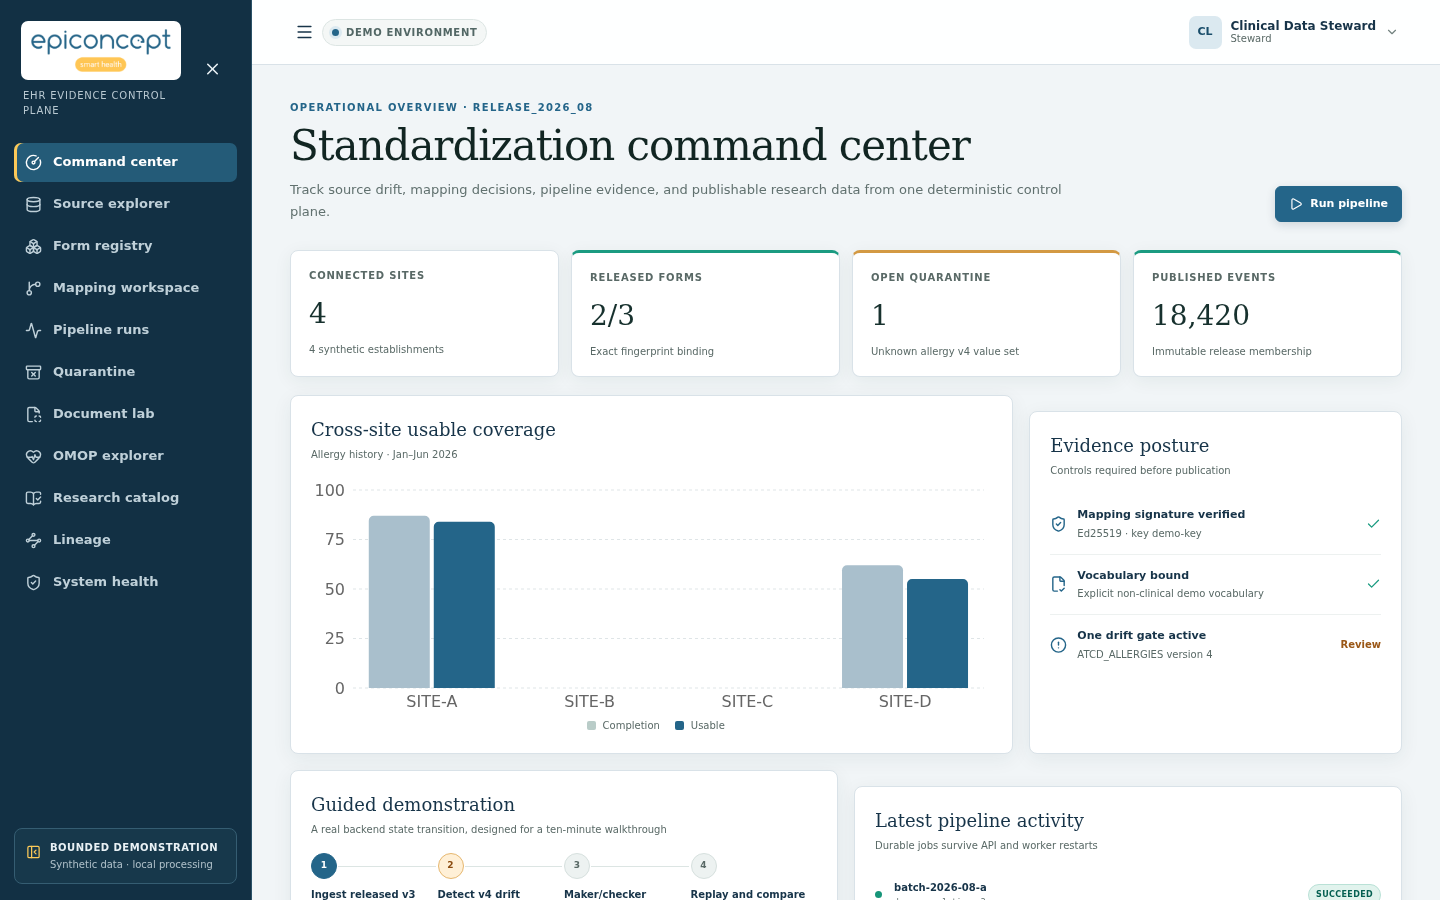
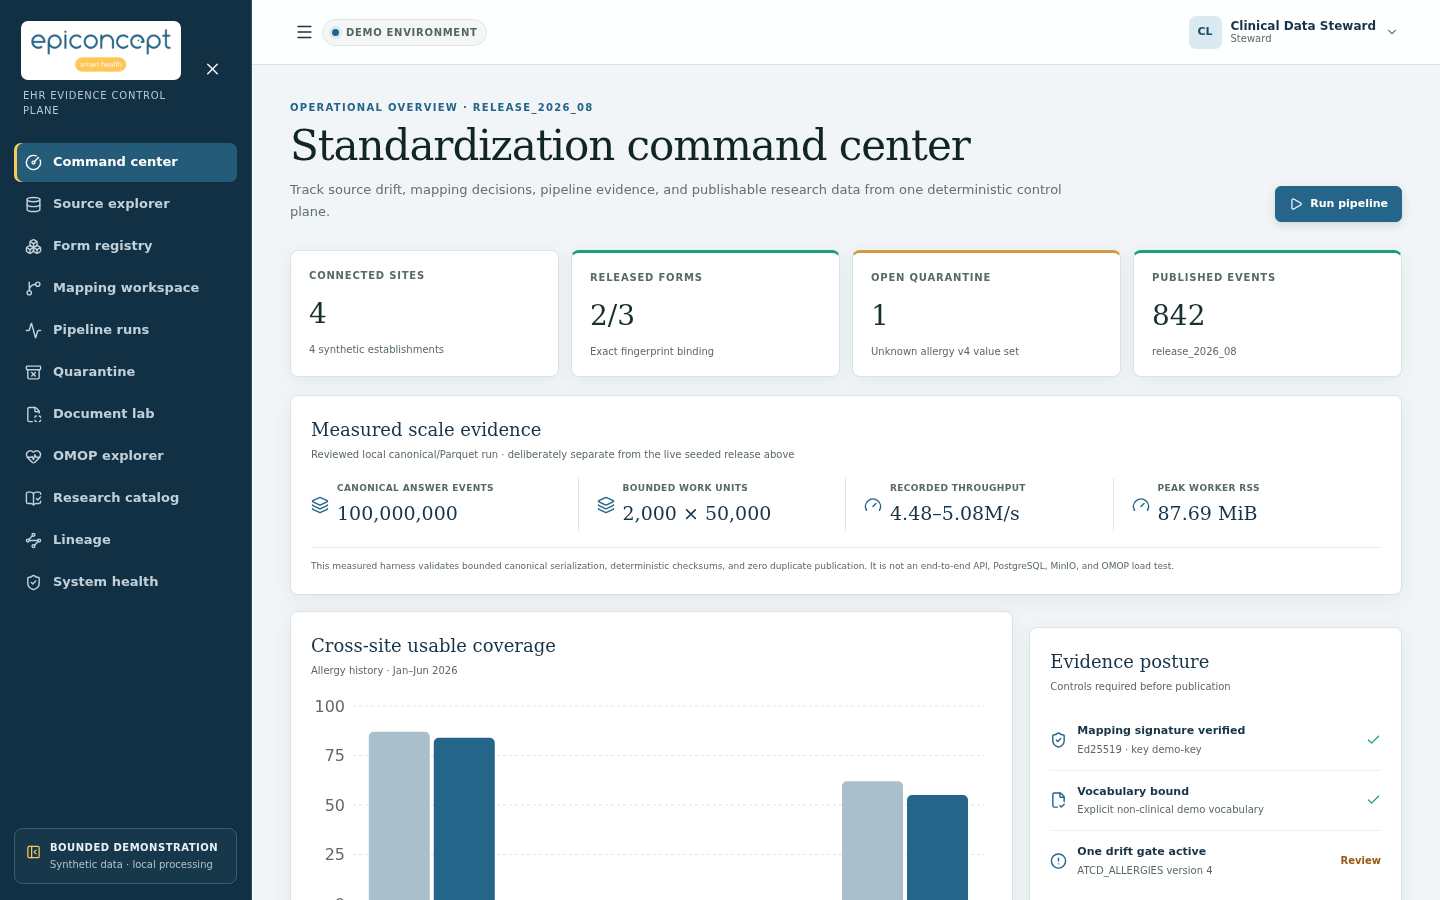
docs: update project documentation

diff --git a/apps/web/src/pages/CommandCenter.tsx b/apps/web/src/pages/CommandCenter.tsx
@@ -243,7 +243,7 @@ export function CommandCenterPage() {
       <div className="dashboard-grid lower-grid">
         <Panel
           title="Guided demonstration"
-          subtitle="A real backend state transition, designed for a ten-minute walkthrough"
+          subtitle="A reviewable end-to-end backend state transition"
         >
           <ol className="demo-steps">
             <li className="done">

diff --git a/tests/unit/test_validate_repository.py b/tests/unit/test_validate_repository.py
@@ -1,0 +1,32 @@
+from __future__ import annotations
+
+import shutil
+import subprocess
+from pathlib import Path
+
+import pytest
+from scripts import validate_repository
+
+
+def test_repository_validation_allows_a_standard_remote(
+    tmp_path: Path, monkeypatch: pytest.MonkeyPatch
+) -> None:
+    git = shutil.which("git")
+    assert git is not None
+    for name in ("LICENSE", "NOTICE", "README.md", "SECURITY.md", "uv.lock", "pnpm-lock.yaml"):
+        (tmp_path / name).write_text(f"fixture for {name}\n", encoding="utf-8")
+    subprocess.run(  # noqa: S603 -- executable is resolved from the trusted PATH
+        [git, "init"], cwd=tmp_path, check=True, capture_output=True
+    )
+    subprocess.run(  # noqa: S603 -- executable is resolved from the trusted PATH
+        [git, "add", "."], cwd=tmp_path, check=True, capture_output=True
+    )
+    subprocess.run(  # noqa: S603 -- executable is resolved from the trusted PATH
+        [git, "remote", "add", "origin", "https://example.invalid/project.git"],
+        cwd=tmp_path,
+        check=True,
+        capture_output=True,
+    )
+    monkeypatch.setattr(validate_repository, "ROOT", tmp_path)
+
+    assert validate_repository.main() == 0

diff --git a/scripts/showcase_check.py b/scripts/showcase_check.py
@@ -1,4 +1,4 @@
-"""Check every user-facing service required for the interview showcase."""
+"""Check every user-facing service required for the complete local showcase."""
 
 from __future__ import annotations
 
@@ -84,7 +84,7 @@ def wait_for_endpoints(
 
 
 def _render_human(results: Sequence[CheckResult]) -> str:
-    lines = ["EHRFS interview showcase"]
+    lines = ["EHRFS local showcase"]
     for result in results:
         marker = "READY" if result.ready else "FAILED"
         suffix = f"HTTP {result.status}" if result.status is not None else result.error

diff --git a/scripts/validate_repository.py b/scripts/validate_repository.py
@@ -55,11 +55,6 @@ def main() -> int:
             for marker in PRIVATE_MARKERS
             if marker.casefold() in value
         )
-    remotes = subprocess.run(  # noqa: S603 -- executable is resolved from the trusted PATH
-        [git, "remote"], cwd=ROOT, check=True, capture_output=True, text=True
-    ).stdout.strip()
-    if remotes:
-        errors.append("a Git remote is configured, but this delivery must remain local")
     if errors:
         print("\n".join(f"ERROR: {error}" for error in errors))
         return 1

diff --git a/README.md b/README.md
@@ -12,8 +12,6 @@ research-ready without pretending that heterogeneous clinical semantics are auto
 [![React](https://img.shields.io/badge/React-19.2-246589)](apps/web/package.json)
 [![License](https://img.shields.io/badge/license-Apache--2.0-FCC958)](LICENSE)
 
-![Command center](docs/assets/generated/command-center-desktop.png)
-
 > This bounded demonstration uses only synthetic/project-owned data. It is not an
 > HDS-certified deployment, has not been validated against a private hospital schema, and
 > makes no clinical-validity or universal-standardization claim.
@@ -36,6 +34,130 @@ research-ready without pretending that heterogeneous clinical semantics are auto
   boxes, confidence thresholds, deterministic French rules, and abstention.
 - Support central patient-level processing and site-local signed aggregate export with
   small-cell suppression.
+
+## Guided application tour
+
+These screenshots come from the reset synthetic scenario produced by `make screenshots`. The
+Playwright capture checks every route at 1440×900 and 390×844, waits for the live API data, and
+fails on horizontal viewport overflow. Desktop captures are shown below for readability; each
+caption also links to the tested mobile layout.
+
+The persona menu in the top-right changes the demo session and demonstrates role boundaries:
+
+| Persona           | Demonstrated responsibility                                       |
+| ----------------- | ----------------------------------------------------------------- |
+| Engineer          | Inspect mappings, queue pipeline work, replay failures, run OCR   |
+| Clinical steward  | Review test vectors, approve/sign mappings, run reviewed OCR      |
+| Researcher        | Inspect releases, coverage, catalog metadata, and lineage         |
+| Platform operator | Queue durable runs, replay quarantined work, inspect system state |
+
+### 1. Command center — see the release posture
+
+![Command center showing release metrics, measured scale evidence, site coverage, and evidence controls](docs/assets/generated/command-center-desktop.png)
+
+The landing page separates the live end-to-end release from the bounded scale harness. It reports
+connected sites, released form versions, unresolved quarantine, published events, site-level usable
+coverage, and the signature/vocabulary/drift gates that control publication. The lower panels guide
+the version-4 drift resolution flow and show recent durable jobs and denominator-aware coverage.
+[Open the mobile capture](docs/assets/generated/command-center-mobile.png).
+
+### 2. Source explorer — inventory the input boundary
+
+![Source explorer listing synthetic source systems and supported adapters](docs/assets/generated/source-explorer-desktop.png)
+
+Every source is registered before patient-level processing. The inventory identifies the site,
+input contract, version, and state, while the adapter boundary lists the explicitly supported FHIR
+R4, QuestionnaireResponse, tabular/EAV, CDA, secure structured-data, and document paths. Inputs are
+typed and rejected explicitly; fields are not guessed. [Open the mobile capture](docs/assets/generated/source-explorer-mobile.png).
+
+### 3. Form registry — detect semantic drift
+
+![Form registry comparing detected versions and their fingerprints](docs/assets/generated/form-registry-desktop.png)
+
+The registry compares form families and versions using two identities: a complete source
+fingerprint for exact provenance and a compatibility fingerprint for safe mapping reuse. Selecting
+a version exposes its full hashes, ordered definition items, and mapping status. In the opening
+scenario, allergy version 4 is held for review because its value set changed.
+[Open the mobile capture](docs/assets/generated/form-registry-mobile.png).
+
+### 4. Mapping workspace — govern meaning with maker/checker review
+
+![Mapping workspace showing the version-4 candidate, test vectors, and approval action](docs/assets/generated/mapping-workspace-desktop.png)
+
+The draft explains the detected change and the exact transformation from local value `Inconnu` to
+canonical `UNKNOWN` and then to its bound OMOP domain. Required test vectors protect unknown,
+explicit-negative, and hidden states. Only the Clinical steward can record an approval rationale
+and create the checksummed, Ed25519-signed immutable release; the application does not mutate Git.
+[Open the mobile capture](docs/assets/generated/mapping-workspace-mobile.png).
+
+### 5. Pipeline runs — inspect durable execution
+
+![Pipeline run ledger showing successful and safely failed work](docs/assets/generated/pipeline-runs-desktop.png)
+
+The job ledger makes attempts, retry budgets, creation time, and correlation identity visible. Core
+work is leased from PostgreSQL with heartbeats and `SKIP LOCKED`, so it remains recoverable without
+Airflow. Each work unit is bounded to 50,000 answer events and advances through manifest,
+canonicalization, quality, OMOP, and catalog gates without destructively replacing completed
+content-addressed outputs. [Open the mobile capture](docs/assets/generated/pipeline-runs-mobile.png).
+
+### 6. Quarantine — preserve failures as evidence
+
+![Quarantine showing an unknown form version with preserved evidence and resolution context](docs/assets/generated/quarantine-desktop.png)
+
+Rejected facts are retained rather than dropped or coerced. Filters expose the failure reason, and
+the evidence/context panels keep the raw pointer, checksum, changed value, and required resolution
+together. After a compatible mapping is released, an Engineer or Platform operator can queue a
+controlled replay; the original failure and prior research release remain auditable.
+[Open the mobile capture](docs/assets/generated/quarantine-mobile.png).
+
+### 7. Document lab — keep OCR evidence reviewable
+
+![Document lab showing a synthetic allergy form and evidence-linked OCR candidate](docs/assets/generated/document-lab-desktop.png)
+
+The document path prefers native text and invokes isolated local OCR only for relevant image-only
+material. The screen keeps the detected bounding box, confidence, model version, checksum,
+substance, reaction, and deterministic French assertion decision together. Extraction produces a
+candidate—not a published clinical fact—and can abstain before human review.
+[Open the mobile capture](docs/assets/generated/document-lab-mobile.png).
+
+### 8. OMOP explorer — publish an immutable research projection
+
+![OMOP explorer listing research releases and projected facts](docs/assets/generated/omop-explorer-desktop.png)
+
+Canonical Parquet remains the lossless semantic source; OMOP 5.4 is a versioned research
+projection. The release table exposes mapping identity, published/quarantined counts, and checksum,
+while projected rows retain source evidence and release membership. Membership and lineage live in
+extension tables, so standard OMOP tables receive no custom release columns.
+[Open the mobile capture](docs/assets/generated/omop-explorer-mobile.png).
+
+### 9. Research catalog — judge fitness for use
+
+![Research catalog comparing site coverage and prevalence with explicit limitations](docs/assets/generated/research-catalog-desktop.png)
+
+Researchers can search concepts and inspect definitions, vocabulary identity, codes, and known
+limitations. Coverage and prevalence are shown as different measures with their own denominators,
+methods, site/period scope, and quality status. The bundled vocabulary is for software testing;
+clinical standardization requires a compatible licensed Athena snapshot.
+[Open the mobile capture](docs/assets/generated/research-catalog-mobile.png).
+
+### 10. Lineage — trace a result back to raw evidence
+
+![Lineage graph connecting raw response, canonical answer, mapping, quality, OMOP, and catalog nodes](docs/assets/generated/lineage-desktop.png)
+
+The interactive graph follows a catalog result backward through the OMOP observation, passed
+quality gates, exact mapping release, canonical answer, and immutable raw response. The ledger below
+the graph provides the same ordered identities without relying on the visualization alone.
+[Open the mobile capture](docs/assets/generated/lineage-mobile.png).
+
+### 11. System health — expose operational and audit evidence
+
+![System health showing component readiness, build metadata, safety boundaries, and audit events](docs/assets/generated/system-health-desktop.png)
+
+The final workspace combines liveness/readiness for the API, database, object store, worker, and
+optional OCR profile with build/deployment metadata. It also states the bounded safety posture and
+shows redacted privileged audit events with actor, resource, action, and correlation identity.
+Health does not imply HDS certification, clinical validation, or production qualification.
+[Open the mobile capture](docs/assets/generated/system-health-mobile.png).
 
 ## Architecture
 
@@ -88,8 +210,8 @@ deterministic opening scenario. Open these local surfaces:
 
 The API reference uses only same-origin assets and therefore works without access to a public CDN.
 The web personas are Engineer, Clinical steward, Researcher, and Platform operator; persona
-switching exists only when `EHRFS_DEMO_MODE=true`. Local passwords must not be added to this public
-README. The repository owner keeps presentation access notes under the ignored `.local/` directory.
+switching exists only when `EHRFS_DEMO_MODE=true`. Demo-only credentials must remain in ignored
+local files and must not be added to this public README.
 
 Core startup is CPU-only and does not download an OCR model. Stop any local profile with
 `make down`; volumes and evidence remain intact.
@@ -115,7 +237,7 @@ make showcase-up
 # Verify every browser-facing showcase service without modifying data.
 make showcase-check
 
-# Restore only the deterministic synthetic rows used by the walkthrough.
+# Restore only the deterministic synthetic opening scenario.
 make showcase-reset
 
 # Follow the application processes; Ctrl-C stops following, not the containers.
@@ -133,7 +255,7 @@ separate terminals after configuring host-reachable PostgreSQL and MinIO URLs. `
 `make reset-demo` intentionally operate inside the running API container so Compose hostnames are
 resolved correctly.
 
-### Interview showcase
+### Complete local showcase
 
 To start the complete CPU demonstration, including Airflow, observability, local OCR, and a reset
 of only the deterministic synthetic scenario:
@@ -144,7 +266,7 @@ make showcase-up
 
 The launcher waits for and reports all eight browser-facing services. Recheck them at any time with
 `make showcase-check`; restore the opening version-4 quarantine state with `make showcase-reset`.
-The exact walkthrough and URLs are in the [demonstration guide](docs/interview-guide.md).
+The guided application tour above explains the complete browser workflow.
 
 There are two deliberately separate proofs. The web application runs the complete raw → canonical
 → mapping → quality/quarantine → OMOP → catalog/lineage path. The scale harness measures bounded
@@ -155,9 +277,10 @@ make showcase-scale
 SHOWCASE_EVENTS=100000000 make showcase-scale
 ```
 
-The first command is a one-million-event rehearsal; the second reruns the reviewed 100-million-event
-proof. See [ADR 0009](docs/adr/0009-scale-validation-and-bulk-orchestration.md) for the production
-bulk coordinator and atomic publication design.
+The first command is a one-million-event validation run; the second reruns the reviewed
+100-million-event proof. See
+[ADR 0009](docs/adr/0009-scale-validation-and-bulk-orchestration.md) for the production bulk
+coordinator and atomic publication design.
 
 ## Build and run reference
 
@@ -170,10 +293,10 @@ bulk coordinator and atomic publication design.
 | `make up-full`                               | Add Prometheus, Grafana, and the Airflow adapter                |
 | `make up-ocr-cpu`                            | Add isolated CPU OCR on port 8081                               |
 | `make up-ocr-gpu`                            | Add isolated NVIDIA OCR on port 8082                            |
-| `make showcase-up`                           | Start, reset, and verify the complete CPU interview stack       |
+| `make showcase-up`                           | Start, reset, and verify the complete CPU showcase stack        |
 | `make showcase-check`                        | Check all eight browser-facing showcase services                |
 | `make showcase-reset`                        | Restore the opening synthetic quarantine scenario               |
-| `make showcase-scale`                        | Run a one-million-event bounded scale rehearsal                 |
+| `make showcase-scale`                        | Run a one-million-event bounded scale validation                |
 | `make logs`                                  | Follow API, worker, and web logs                                |
 | `make down`                                  | Stop services without deleting named volumes                    |
 | `make seed`                                  | Idempotently seed the guided synthetic scenario                 |
@@ -270,7 +393,6 @@ Read [SECURITY.md](SECURITY.md), the [threat model](docs/security/threat-model.m
 - [API and CLI](docs/api/)
 - [Operations and runbooks](docs/operations.md)
 - [Testing and scenario matrix](docs/testing.md)
-- [Interview demonstration guide](docs/interview-guide.md)
 - [Contributing](CONTRIBUTING.md) and [security policy](SECURITY.md)
 
 ## Licence

diff --git a/docs/testing.md b/docs/testing.md
@@ -18,7 +18,7 @@ Hardware-dependent checks write measured reports under `artifacts/`; reviewed be
 under `docs/benchmarks/` identify the exact environment and command.
 
 Scale evidence is deliberately layered. The browser scenario is a live end-to-end correctness
-proof. `make showcase-scale` defaults to a one-million-event rehearsal of the bounded canonical
+proof. `make showcase-scale` defaults to a one-million-event validation of the bounded canonical
 path; `SHOWCASE_EVENTS=100000000 make showcase-scale` reruns the full measured data-plane proof.
 Neither command claims end-to-end production throughput. That claim would require representative
 source traffic through the target PostgreSQL, MinIO, worker, quality, OMOP, catalog, and lineage
